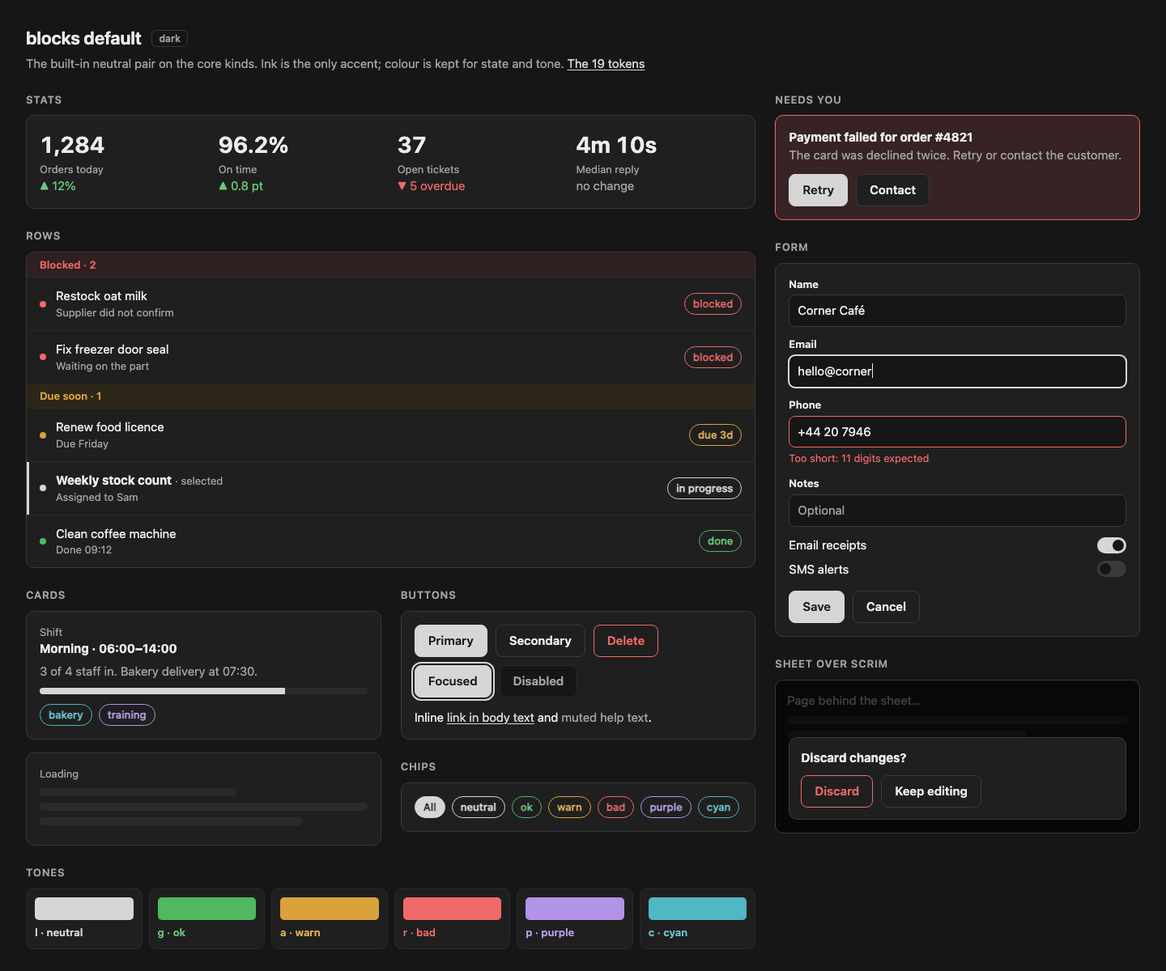
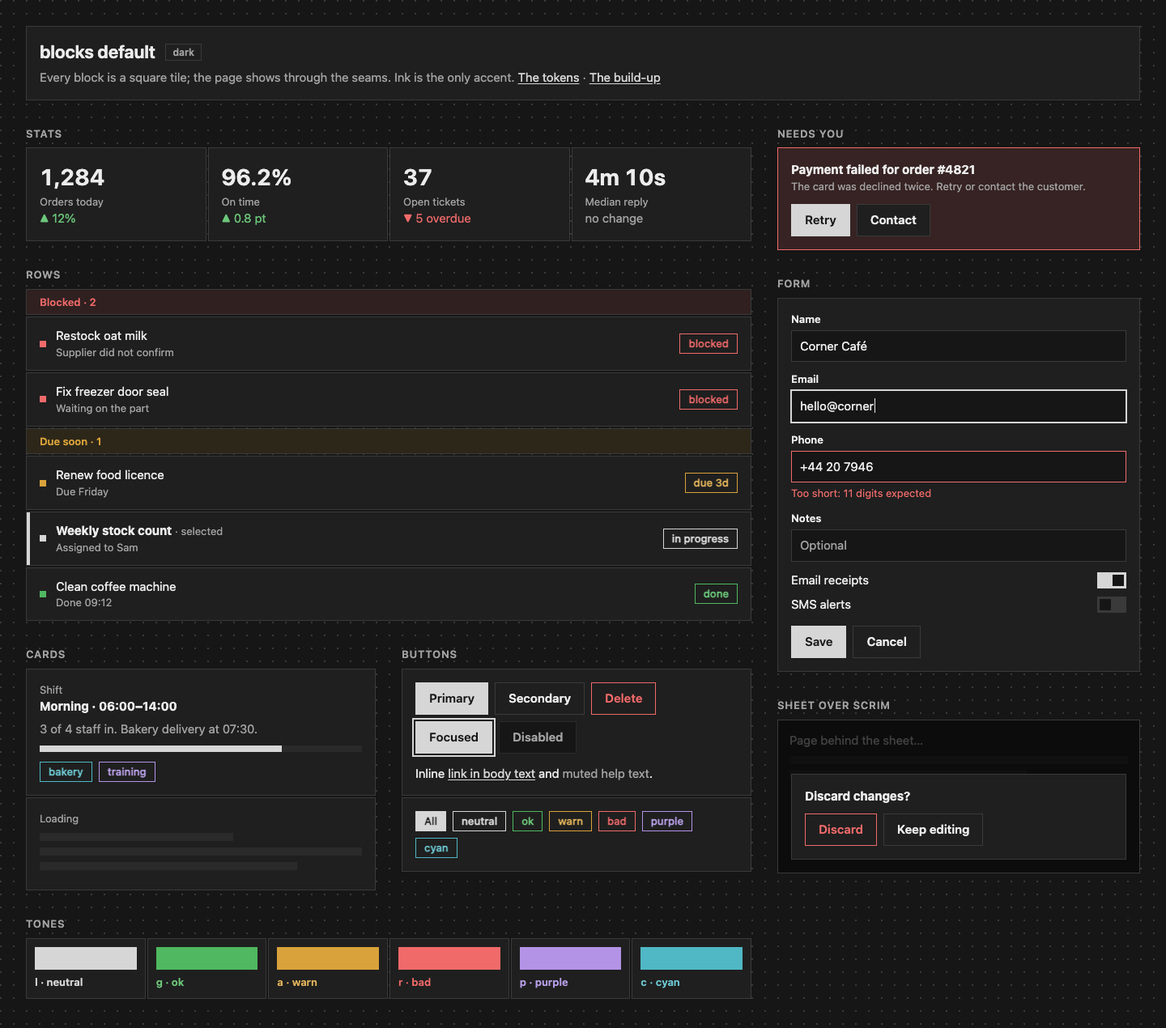
design(#53): tiles, seams, dot grid and the first-load build-up on the default pair (q2127)

diff --git a/docs/design/neutral-default/tokens.html b/docs/design/neutral-default/tokens.html
@@ -1,10 +1,10 @@
 <!doctype html><html lang="en"><head><meta charset="utf-8"><meta name="viewport" content="width=device-width,initial-scale=1">
-<title>blocks default pair: the 19 tokens</title><link rel="stylesheet" href="tokens.css"><link rel="stylesheet" href="page.css">
-<style>table{width:100%;border-collapse:collapse;background:var(--card);border:1px solid var(--edge);border-radius:10px;overflow:hidden}
+<title>blocks default: the tokens</title><link rel="stylesheet" href="tokens.css"><link rel="stylesheet" href="page.css">
+<style>table{width:100%;border-collapse:collapse;background:var(--card);border:1px solid var(--edge);border-radius:0}
 th,td{text-align:left;padding:9px 14px;border-top:1px solid var(--line);font-size:14px}th{font-size:13px;color:var(--mute);border-top:0}
 .m{color:var(--mute)}code{font:13px ui-monospace,SFMono-Regular,Menlo,monospace}
-.sw{display:inline-block;width:18px;height:18px;border-radius:4px;border:1px solid var(--edge);vertical-align:-4px;margin-right:8px}
+.sw{display:inline-block;width:18px;height:18px;border:1px solid var(--edge);vertical-align:-4px;margin-right:8px}
 @media (max-width:700px){th,td{padding:8px 8px;font-size:12px}code{font-size:11px}.sw{width:14px;height:14px;margin-right:4px}td.m,th.m{display:none}}</style></head>
-<body><h1>blocks default: the 19 tokens</h1>
-<p class="sub">“Default light” and “Default dark”. Both pass <code>gate</code>; no value is taken from a named scheme. <a href="kinds.html">The core kinds</a></p>
-<table><tr><th>Token</th><th class="m">Used for</th><th>Light</th><th>Dark</th></tr><tr><td><code>--bg</code></td><td class="m">page</td><td><span class="sw" style="background:#f6f6f6"></span><code>#f6f6f6</code></td><td><span class="sw" style="background:#161616"></span><code>#161616</code></td></tr><tr><td><code>--card</code></td><td class="m">card, sheet</td><td><span class="sw" style="background:#ffffff"></span><code>#ffffff</code></td><td><span class="sw" style="background:#1f1f1f"></span><code>#1f1f1f</code></td></tr><tr><td><code>--edge</code></td><td class="m">borders</td><td><span class="sw" style="background:#d0d0d0"></span><code>#d0d0d0</code></td><td><span class="sw" style="background:#3a3a3a"></span><code>#3a3a3a</code></td></tr><tr><td><code>--line</code></td><td class="m">dividers, tracks</td><td><span class="sw" style="background:#e4e4e4"></span><code>#e4e4e4</code></td><td><span class="sw" style="background:#2a2a2a"></span><code>#2a2a2a</code></td></tr><tr><td><code>--scrim</code></td><td class="m">behind a sheet</td><td><span class="sw" style="background:#0000004d"></span><code>#0000004d</code></td><td><span class="sw" style="background:#00000099"></span><code>#00000099</code></td></tr><tr><td><code>--fg</code></td><td class="m">text</td><td><span class="sw" style="background:#1c1c1c"></span><code>#1c1c1c</code></td><td><span class="sw" style="background:#ececec"></span><code>#ececec</code></td></tr><tr><td><code>--mute</code></td><td class="m">secondary text</td><td><span class="sw" style="background:#5e5e5e"></span><code>#5e5e5e</code></td><td><span class="sw" style="background:#a3a3a3"></span><code>#a3a3a3</code></td></tr><tr><td><code>--l</code></td><td class="m">ink accent: primary fill, selection, focus</td><td><span class="sw" style="background:#3d3d3d"></span><code>#3d3d3d</code></td><td><span class="sw" style="background:#d6d6d6"></span><code>#d6d6d6</code></td></tr><tr><td><code>--link</code></td><td class="m">links (underlined)</td><td><span class="sw" style="background:#3d3d3d"></span><code>#3d3d3d</code></td><td><span class="sw" style="background:#d6d6d6"></span><code>#d6d6d6</code></td></tr><tr><td><code>--g</code></td><td class="m">ok state</td><td><span class="sw" style="background:#2f8a3e"></span><code>#2f8a3e</code></td><td><span class="sw" style="background:#4fb860"></span><code>#4fb860</code></td></tr><tr><td><code>--a</code></td><td class="m">warn state</td><td><span class="sw" style="background:#a86f00"></span><code>#a86f00</code></td><td><span class="sw" style="background:#d9a23a"></span><code>#d9a23a</code></td></tr><tr><td><code>--r</code></td><td class="m">bad state, needs-you</td><td><span class="sw" style="background:#c62828"></span><code>#c62828</code></td><td><span class="sw" style="background:#f06a6a"></span><code>#f06a6a</code></td></tr><tr><td><code>--p</code></td><td class="m">purple tone</td><td><span class="sw" style="background:#7a52b3"></span><code>#7a52b3</code></td><td><span class="sw" style="background:#b393e6"></span><code>#b393e6</code></td></tr><tr><td><code>--c</code></td><td class="m">cyan tone</td><td><span class="sw" style="background:#1f7a85"></span><code>#1f7a85</code></td><td><span class="sw" style="background:#4fb8c4"></span><code>#4fb8c4</code></td></tr><tr><td><code>--fk-l</code></td><td class="m">neutral tone text</td><td><span class="sw" style="background:#3d3d3d"></span><code>#3d3d3d</code></td><td><span class="sw" style="background:#d6d6d6"></span><code>#d6d6d6</code></td></tr><tr><td><code>--fk-p</code></td><td class="m">purple tone text</td><td><span class="sw" style="background:#6a45a0"></span><code>#6a45a0</code></td><td><span class="sw" style="background:#b8a0e8"></span><code>#b8a0e8</code></td></tr><tr><td><code>--fk-c</code></td><td class="m">cyan tone text</td><td><span class="sw" style="background:#17656e"></span><code>#17656e</code></td><td><span class="sw" style="background:#6cc6d0"></span><code>#6cc6d0</code></td></tr><tr><td><code>--fk-g</code></td><td class="m">ok tone text</td><td><span class="sw" style="background:#23702f"></span><code>#23702f</code></td><td><span class="sw" style="background:#6cc77a"></span><code>#6cc77a</code></td></tr><tr><td><code>--fk-a</code></td><td class="m">warn tone text</td><td><span class="sw" style="background:#855400"></span><code>#855400</code></td><td><span class="sw" style="background:#e0b25a"></span><code>#e0b25a</code></td></tr></table></body></html>
+<body><div class="tiles" style="margin-bottom:32px"><div class="tile"><h1>blocks default: the tokens</h1>
+<p class="sub">The 19 colours, then the style values. “Default light” and “Default dark”. Both pass <code>gate</code>; no value is taken from a named scheme. <a href="kinds.html">The core kinds</a> · <a href="storyboard.html">The build-up</a></p></div></div><h1>The 19 colours</h1><p class="sub" style="margin-bottom:16px">Unchanged from the first round.</p>
+<table><tr><th>Token</th><th class="m">Used for</th><th>Light</th><th>Dark</th></tr><tr><td><code>--bg</code></td><td class="m">page</td><td><span class="sw" style="background:#f6f6f6"></span><code>#f6f6f6</code></td><td><span class="sw" style="background:#161616"></span><code>#161616</code></td></tr><tr><td><code>--card</code></td><td class="m">card, sheet</td><td><span class="sw" style="background:#ffffff"></span><code>#ffffff</code></td><td><span class="sw" style="background:#1f1f1f"></span><code>#1f1f1f</code></td></tr><tr><td><code>--edge</code></td><td class="m">borders</td><td><span class="sw" style="background:#d0d0d0"></span><code>#d0d0d0</code></td><td><span class="sw" style="background:#3a3a3a"></span><code>#3a3a3a</code></td></tr><tr><td><code>--line</code></td><td class="m">dividers, tracks</td><td><span class="sw" style="background:#e4e4e4"></span><code>#e4e4e4</code></td><td><span class="sw" style="background:#2a2a2a"></span><code>#2a2a2a</code></td></tr><tr><td><code>--scrim</code></td><td class="m">behind a sheet</td><td><span class="sw" style="background:#0000004d"></span><code>#0000004d</code></td><td><span class="sw" style="background:#00000099"></span><code>#00000099</code></td></tr><tr><td><code>--fg</code></td><td class="m">text</td><td><span class="sw" style="background:#1c1c1c"></span><code>#1c1c1c</code></td><td><span class="sw" style="background:#ececec"></span><code>#ececec</code></td></tr><tr><td><code>--mute</code></td><td class="m">secondary text</td><td><span class="sw" style="background:#5e5e5e"></span><code>#5e5e5e</code></td><td><span class="sw" style="background:#a3a3a3"></span><code>#a3a3a3</code></td></tr><tr><td><code>--l</code></td><td class="m">ink accent: primary fill, selection, focus</td><td><span class="sw" style="background:#3d3d3d"></span><code>#3d3d3d</code></td><td><span class="sw" style="background:#d6d6d6"></span><code>#d6d6d6</code></td></tr><tr><td><code>--link</code></td><td class="m">links (underlined)</td><td><span class="sw" style="background:#3d3d3d"></span><code>#3d3d3d</code></td><td><span class="sw" style="background:#d6d6d6"></span><code>#d6d6d6</code></td></tr><tr><td><code>--g</code></td><td class="m">ok state</td><td><span class="sw" style="background:#2f8a3e"></span><code>#2f8a3e</code></td><td><span class="sw" style="background:#4fb860"></span><code>#4fb860</code></td></tr><tr><td><code>--a</code></td><td class="m">warn state</td><td><span class="sw" style="background:#a86f00"></span><code>#a86f00</code></td><td><span class="sw" style="background:#d9a23a"></span><code>#d9a23a</code></td></tr><tr><td><code>--r</code></td><td class="m">bad state, needs-you</td><td><span class="sw" style="background:#c62828"></span><code>#c62828</code></td><td><span class="sw" style="background:#f06a6a"></span><code>#f06a6a</code></td></tr><tr><td><code>--p</code></td><td class="m">purple tone</td><td><span class="sw" style="background:#7a52b3"></span><code>#7a52b3</code></td><td><span class="sw" style="background:#b393e6"></span><code>#b393e6</code></td></tr><tr><td><code>--c</code></td><td class="m">cyan tone</td><td><span class="sw" style="background:#1f7a85"></span><code>#1f7a85</code></td><td><span class="sw" style="background:#4fb8c4"></span><code>#4fb8c4</code></td></tr><tr><td><code>--fk-l</code></td><td class="m">neutral tone text</td><td><span class="sw" style="background:#3d3d3d"></span><code>#3d3d3d</code></td><td><span class="sw" style="background:#d6d6d6"></span><code>#d6d6d6</code></td></tr><tr><td><code>--fk-p</code></td><td class="m">purple tone text</td><td><span class="sw" style="background:#6a45a0"></span><code>#6a45a0</code></td><td><span class="sw" style="background:#b8a0e8"></span><code>#b8a0e8</code></td></tr><tr><td><code>--fk-c</code></td><td class="m">cyan tone text</td><td><span class="sw" style="background:#17656e"></span><code>#17656e</code></td><td><span class="sw" style="background:#6cc6d0"></span><code>#6cc6d0</code></td></tr><tr><td><code>--fk-g</code></td><td class="m">ok tone text</td><td><span class="sw" style="background:#23702f"></span><code>#23702f</code></td><td><span class="sw" style="background:#6cc77a"></span><code>#6cc77a</code></td></tr><tr><td><code>--fk-a</code></td><td class="m">warn tone text</td><td><span class="sw" style="background:#855400"></span><code>#855400</code></td><td><span class="sw" style="background:#e0b25a"></span><code>#e0b25a</code></td></tr></table><h1 style="margin-top:32px">Style values</h1><p class="sub" style="margin-bottom:16px">The same in light and dark. Under reduced motion nothing animates.</p><table><tr><th>Token</th><th>Value</th><th class="m">Used for</th></tr><tr><td><code>--radius</code></td><td><code>0px</code></td><td class="m">tile, button, field and chip corners: square</td></tr><tr><td><code>--seam</code></td><td><code>2px</code></td><td class="m">gap between tiles; the page shows through</td></tr><tr><td><code>tile edge</code></td><td>1px <code>--edge</code></td><td class="m">each tile's outline, so the seam reads in light mode</td></tr><tr><td><code>--dot-size</code></td><td><code>2px</code></td><td class="m">grid dot, a square</td></tr><tr><td><code>--dot-gap</code></td><td><code>16px</code></td><td class="m">dot spacing; page padding and section gaps are multiples of it</td></tr><tr><td><code>--dot</code></td><td><code>--edge</code></td><td class="m">dot colour: no 20th colour</td></tr><tr><td><code>--settle</code></td><td><code>160ms</code></td><td class="m">one tile's build-up: fade and rise</td></tr><tr><td><code>--rise</code></td><td><code>8px</code></td><td class="m">how far a tile rises as it settles</td></tr><tr><td><code>--stagger</code></td><td><code>40ms</code></td><td class="m">most time between two tiles' starts</td></tr><tr><td><code>--build</code></td><td><code>200ms</code></td><td class="m">latest start of the last tile; step = min(--stagger, --build ÷ (tiles − 1)); all done by 360 ms</td></tr><tr><td><code>--enter</code></td><td><code>160ms</code></td><td class="m">a later block's fade, in place, no rise</td></tr><tr><td><code>--ease</code></td><td><code>cubic-bezier(0.2, 0, 0, 1)</code></td><td class="m">ease-out for both</td></tr></table></body></html>

diff --git a/docs/design/neutral-default/kinds.html b/docs/design/neutral-default/kinds.html
@@ -1,72 +1,74 @@
 <!doctype html><html lang="en"><head><meta charset="utf-8"><meta name="viewport" content="width=device-width,initial-scale=1">
-<title>blocks default pair: core kinds</title><link rel="stylesheet" href="tokens.css"><link rel="stylesheet" href="page.css"></head>
+<title>blocks default: core kinds as tiles</title><link rel="stylesheet" href="tokens.css"><link rel="stylesheet" href="page.css"></head>
 <body>
-<h1>blocks default <span class="mode"></span></h1>
-<p class="sub">The built-in neutral pair on the core kinds. Ink is the only accent; colour is kept for state and tone. <a href="tokens.html">The 19 tokens</a></p>
+<div class="tiles head"><div class="tile"><h1>blocks default <span class="mode"></span></h1>
+<p class="sub">Every block is a square tile; the page shows through the seams. Ink is the only accent. <a href="tokens.html">The tokens</a> · <a href="storyboard.html">The build-up</a></p></div></div>
 <div class="grid"><div class="col">
 <section><h2>Stats</h2>
-<div class="card stats">
-<div class="stat"><div class="n">1,284</div><div class="k">Orders today</div><div class="up">▲ 12%</div></div>
-<div class="stat"><div class="n">96.2%</div><div class="k">On time</div><div class="up">▲ 0.8 pt</div></div>
-<div class="stat"><div class="n">37</div><div class="k">Open tickets</div><div class="down">▼ 5 overdue</div></div>
-<div class="stat"><div class="n">4m 10s</div><div class="k">Median reply</div><div class="ph">no change</div></div>
+<div class="tiles stats">
+<div class="tile stat"><div class="n">1,284</div><div class="k">Orders today</div><div class="up">▲ 12%</div></div>
+<div class="tile stat"><div class="n">96.2%</div><div class="k">On time</div><div class="up">▲ 0.8 pt</div></div>
+<div class="tile stat"><div class="n">37</div><div class="k">Open tickets</div><div class="down">▼ 5 overdue</div></div>
+<div class="tile stat"><div class="n">4m 10s</div><div class="k">Median reply</div><div class="ph">no change</div></div>
 </div></section>
 <section><h2>Rows</h2>
-<div class="rows">
-<div class="grp red">Blocked · 2</div>
-<div class="row"><span class="dot" style="background:var(--r)"></span><div class="t">Restock oat milk<div class="m">Supplier did not confirm</div></div><span class="chip r">blocked</span></div>
-<div class="row"><span class="dot" style="background:var(--r)"></span><div class="t">Fix freezer door seal<div class="m">Waiting on the part</div></div><span class="chip r">blocked</span></div>
-<div class="grp amber">Due soon · 1</div>
-<div class="row"><span class="dot" style="background:var(--a)"></span><div class="t">Renew food licence<div class="m">Due Friday</div></div><span class="chip a">due 3d</span></div>
-<div class="row sel"><span class="dot" style="background:var(--l)"></span><div class="t"><strong>Weekly stock count</strong> <span class="m">· selected</span><div class="m">Assigned to Sam</div></div><span class="chip l">in progress</span></div>
-<div class="row"><span class="dot" style="background:var(--g)"></span><div class="t">Clean coffee machine<div class="m">Done 09:12</div></div><span class="chip g">done</span></div>
+<div class="tiles" id="rows">
+<div class="tile grp red">Blocked · 2</div>
+<div class="tile row"><span class="dot" style="background:var(--r)"></span><div class="t">Restock oat milk<div class="m">Supplier did not confirm</div></div><span class="chip r">blocked</span></div>
+<div class="tile row"><span class="dot" style="background:var(--r)"></span><div class="t">Fix freezer door seal<div class="m">Waiting on the part</div></div><span class="chip r">blocked</span></div>
+<div class="tile grp amber">Due soon · 1</div>
+<div class="tile row"><span class="dot" style="background:var(--a)"></span><div class="t">Renew food licence<div class="m">Due Friday</div></div><span class="chip a">due 3d</span></div>
+<div class="tile row sel"><span class="dot" style="background:var(--l)"></span><div class="t"><strong>Weekly stock count</strong> <span class="m">· selected</span><div class="m">Assigned to Sam</div></div><span class="chip l">in progress</span></div>
+<div class="tile row"><span class="dot" style="background:var(--g)"></span><div class="t">Clean coffee machine<div class="m">Done 09:12</div></div><span class="chip g">done</span></div>
 </div></section>
 <div class="pair"><section><h2>Cards</h2>
-<div class="card"><div class="m" style="color:var(--mute);font-size:13px">Shift</div><strong>Morning · 06:00–14:00</strong>
+<div class="tiles">
+<div class="tile"><div class="m">Shift</div><strong>Morning · 06:00–14:00</strong>
 <p style="margin:6px 0 10px;color:var(--mute)">3 of 4 staff in. Bakery delivery at 07:30.</p>
 <div class="bar"><b style="width:75%;background:var(--l)"></b></div>
 <div class="chips" style="margin-top:12px"><span class="chip c">bakery</span><span class="chip p">training</span></div></div>
-<div class="card" style="margin-top:16px"><div style="font-size:13px;color:var(--mute)">Loading</div>
+<div class="tile"><div class="m">Loading</div>
 <div class="skel" style="width:60%"></div><div class="skel"></div><div class="skel" style="width:80%"></div></div>
-</section>
+</div></section>
 <section><h2>Buttons</h2>
-<div class="card"><div class="btns">
+<div class="tiles">
+<div class="tile"><div class="btns">
 <button class="btn pri">Primary</button><button class="btn">Secondary</button><button class="btn bad">Delete</button>
 <button class="btn pri focus">Focused</button><button class="btn" disabled>Disabled</button></div>
 <p style="margin-top:14px">Inline <a href="#">link in body text</a> and <span class="ph">muted help text</span>.</p></div>
-<h2 style="margin-top:24px">Chips</h2>
-<div class="card chips"><span class="chip on">All</span><span class="chip l">neutral</span><span class="chip g">ok</span><span class="chip a">warn</span>
+<div class="tile chips"><span class="chip on">All</span><span class="chip l">neutral</span><span class="chip g">ok</span><span class="chip a">warn</span>
 <span class="chip r">bad</span><span class="chip p">purple</span><span class="chip c">cyan</span></div>
-</section>
+</div></section>
 </div>
 <section><h2>Tones</h2>
-<div class="tones">
-<div class="tone" style="color:var(--fk-l)"><i style="background:var(--l)"></i>l · neutral</div>
-<div class="tone" style="color:var(--fk-g)"><i style="background:var(--g)"></i>g · ok</div>
-<div class="tone" style="color:var(--fk-a)"><i style="background:var(--a)"></i>a · warn</div>
-<div class="tone" style="color:var(--r)"><i style="background:var(--r)"></i>r · bad</div>
-<div class="tone" style="color:var(--fk-p)"><i style="background:var(--p)"></i>p · purple</div>
-<div class="tone" style="color:var(--fk-c)"><i style="background:var(--c)"></i>c · cyan</div>
+<div class="tiles tones">
+<div class="tile tone" style="color:var(--fk-l)"><i style="background:var(--l)"></i>l · neutral</div>
+<div class="tile tone" style="color:var(--fk-g)"><i style="background:var(--g)"></i>g · ok</div>
+<div class="tile tone" style="color:var(--fk-a)"><i style="background:var(--a)"></i>a · warn</div>
+<div class="tile tone" style="color:var(--r)"><i style="background:var(--r)"></i>r · bad</div>
+<div class="tile tone" style="color:var(--fk-p)"><i style="background:var(--p)"></i>p · purple</div>
+<div class="tile tone" style="color:var(--fk-c)"><i style="background:var(--c)"></i>c · cyan</div>
 </div></section>
 </div><div class="col">
 <section><h2>Needs you</h2>
-<div class="needs"><strong>Payment failed for order #4821</strong>
+<div class="tiles"><div class="tile needs"><strong>Payment failed for order #4821</strong>
 <p class="m">The card was declined twice. Retry or contact the customer.</p>
-<div class="btns" style="margin-top:12px"><button class="btn pri">Retry</button><button class="btn">Contact</button></div></div>
+<div class="btns" style="margin-top:12px"><button class="btn pri">Retry</button><button class="btn">Contact</button></div></div></div>
 </section>
 <section><h2>Form</h2>
-<div class="card">
+<div class="tiles"><div class="tile">
 <label>Name</label><div class="in">Corner Café</div>
 <label>Email</label><div class="in focus">hello@corner<span style="border-left:1.5px solid var(--fg);margin-left:1px"></span></div>
 <label>Phone</label><div class="in err">+44 20 7946</div><div class="hint err">Too short: 11 digits expected</div>
 <label>Notes</label><div class="in ph">Optional</div>
-<div class="row" style="padding:12px 0 0;border:0"><div class="t">Email receipts</div><span class="toggle"></span></div>
-<div class="row" style="padding:8px 0 0;border:0"><div class="t">SMS alerts</div><span class="toggle off"></span></div>
+<div class="row" style="padding:12px 0 0"><div class="t">Email receipts</div><span class="toggle"></span></div>
+<div class="row" style="padding:8px 0 0"><div class="t">SMS alerts</div><span class="toggle off"></span></div>
 <div class="btns" style="margin-top:16px"><button class="btn pri">Save</button><button class="btn">Cancel</button></div>
-</div></section>
+</div></div></section>
 <section><h2>Sheet over scrim</h2>
-<div class="stage"><div class="under">Page behind the sheet…<div class="skel"></div><div class="skel" style="width:70%"></div></div>
-<div class="scrim"></div><div class="sheet"><strong>Discard changes?</strong>
-<div class="btns" style="margin-top:10px"><button class="btn bad">Discard</button><button class="btn">Keep editing</button></div></div></div>
+<div class="tiles"><div class="tile stage"><div class="under">Page behind the sheet…<div class="skel"></div><div class="skel" style="width:70%"></div></div>
+<div class="scrim"></div><div class="tile sheet"><strong>Discard changes?</strong>
+<div class="btns" style="margin-top:10px"><button class="btn bad">Discard</button><button class="btn">Keep editing</button></div></div></div></div>
 </section>
-</div></div></body></html>
+</div></div>
+<script src="build.js"></script></body></html>

diff --git a/docs/design/neutral-default/page.css b/docs/design/neutral-default/page.css
@@ -1,54 +1,61 @@
 *{box-sizing:border-box;margin:0}
-body{background:var(--bg);color:var(--fg);font:15px/1.45 -apple-system,BlinkMacSystemFont,"Segoe UI",Roboto,sans-serif;padding:32px}
-h1{font-size:22px;font-weight:650}h2{font-size:13px;font-weight:600;text-transform:uppercase;letter-spacing:.06em;color:var(--mute);margin:0 0 10px}
-.sub{color:var(--mute);margin:4px 0 24px}
+body{color:var(--fg);font:15px/1.45 -apple-system,BlinkMacSystemFont,"Segoe UI",Roboto,sans-serif;padding:32px;min-height:100vh;
+background:conic-gradient(from 270deg at var(--dot-size) var(--dot-size),var(--dot) 25%,transparent 0) 0 0/var(--dot-gap) var(--dot-gap),var(--bg)}
+h1{font-size:22px;font-weight:650}
+h2{font-size:13px;font-weight:600;text-transform:uppercase;letter-spacing:.06em;color:var(--mute);margin:0 0 8px}
+.sub{color:var(--mute);margin:4px 0 0}
 a{color:var(--link);text-decoration:underline;text-underline-offset:2px}
-.grid{display:grid;grid-template-columns:2fr 1fr;gap:24px;align-items:start}.col{display:flex;flex-direction:column;gap:24px;min-width:0}.pair{display:grid;grid-template-columns:1fr 1fr;gap:24px;align-items:start}
-.span2{grid-column:span 2}
-.card{background:var(--card);border:1px solid var(--edge);border-radius:10px;padding:16px}
-.rows{background:var(--card);border:1px solid var(--edge);border-radius:10px;overflow:hidden}
-.row{display:flex;align-items:center;gap:12px;padding:12px 16px;border-top:1px solid var(--line)}
-.row:first-child{border-top:0}.row .t{flex:1}.row .m{color:var(--mute);font-size:13px}
-.row.sel{box-shadow:inset 3px 0 0 var(--l)}
+.grid{display:grid;grid-template-columns:2fr 1fr;gap:32px;align-items:start}.col{display:flex;flex-direction:column;gap:32px;min-width:0}
+.pair{display:grid;grid-template-columns:1fr 1fr;gap:32px;align-items:start}
+.tiles{display:grid;gap:var(--seam)}
+.tile{background:var(--card);border:1px solid var(--edge);border-radius:var(--radius);padding:16px}
+.head{margin-bottom:32px}
+.row{display:flex;align-items:center;gap:12px;padding:12px 16px}
+.row .t{flex:1}.m{color:var(--mute);font-size:13px}
+.row.sel{box-shadow:inset 4px 0 0 var(--l)}
 .grp{padding:6px 16px;font-size:13px;font-weight:600}
 .grp.red{background:color-mix(in srgb,var(--r) 12%,var(--bg));color:var(--r)}
 .grp.amber{background:color-mix(in srgb,var(--a) 12%,var(--bg));color:var(--a)}
-.needs{background:color-mix(in srgb,var(--r) 15%,var(--bg));border:1px solid var(--r);border-radius:10px;padding:16px}
-.needs .m{color:var(--mute)}
-.dot{width:8px;height:8px;border-radius:50%;flex:none}
+.needs{background:color-mix(in srgb,var(--r) 15%,var(--bg));border-color:var(--r)}
+.dot{width:8px;height:8px;flex:none}
 .chips{display:flex;flex-wrap:wrap;gap:8px}
-.chip{display:inline-flex;align-items:center;gap:6px;padding:3px 10px;border-radius:999px;font-size:13px;font-weight:550;border:1px solid}
+.chip{display:inline-flex;align-items:center;padding:2px 10px;border-radius:var(--radius);font-size:13px;font-weight:550;border:1px solid}
 .chip.l{color:var(--fk-l);border-color:var(--l)}.chip.p{color:var(--fk-p);border-color:var(--p)}.chip.c{color:var(--fk-c);border-color:var(--c)}
 .chip.g{color:var(--fk-g);border-color:var(--g)}.chip.a{color:var(--fk-a);border-color:var(--a)}.chip.r{color:var(--r);border-color:var(--r)}
 .chip.on{background:var(--l);color:var(--bg);border-color:var(--l)}
-.btns{display:flex;flex-wrap:wrap;gap:10px}
-.btn{font:inherit;font-weight:600;padding:8px 16px;border-radius:8px;border:1px solid var(--edge);background:var(--card);color:var(--fg)}
+.btns{display:flex;flex-wrap:wrap;gap:8px}
+.btn{font:inherit;font-weight:600;padding:8px 16px;border-radius:var(--radius);border:1px solid var(--edge);background:var(--card);color:var(--fg)}
 .btn.pri{background:var(--l);color:var(--bg);border-color:var(--l)}
 .btn.bad{color:var(--r);border-color:var(--r)}
 .btn.focus{outline:2px solid var(--l);outline-offset:2px}
 .btn[disabled]{color:var(--mute);border-color:var(--line);background:var(--bg)}
-.stats{display:grid;grid-template-columns:repeat(4,1fr);gap:16px}
+.stats{grid-template-columns:repeat(4,1fr)}
 .stat .n{font-size:28px;font-weight:650;font-variant-numeric:tabular-nums}.stat .k{color:var(--mute);font-size:13px}
 .up{color:var(--fk-g)}.down{color:var(--r)}
 label{display:block;font-size:13px;font-weight:600;margin:12px 0 4px}label:first-child{margin-top:0}
-.in{width:100%;font:inherit;color:var(--fg);background:var(--bg);border:1px solid var(--edge);border-radius:8px;padding:8px 10px}
+.in{width:100%;color:var(--fg);background:var(--bg);border:1px solid var(--edge);border-radius:var(--radius);padding:8px 10px}
 .in.focus{border-color:var(--l);outline:2px solid var(--l);outline-offset:-1px}
 .in.err{border-color:var(--r)}.hint{font-size:13px;color:var(--mute);margin-top:4px}.hint.err{color:var(--r)}
 .ph{color:var(--mute)}
-.tones{display:grid;grid-template-columns:repeat(6,1fr);gap:8px}
-.tone{border-radius:8px;padding:10px;font-size:13px;font-weight:600;background:var(--card);border:1px solid var(--line)}
-.tone i{display:block;height:28px;border-radius:5px;margin-bottom:6px}
-.bar{height:8px;border-radius:4px;background:var(--line);overflow:hidden}.bar b{display:block;height:100%}
-.stage{position:relative;height:190px;border-radius:10px;overflow:hidden;border:1px solid var(--edge);background:var(--bg)}
+.tones{grid-template-columns:repeat(6,1fr)}
+.tone{font-size:13px;font-weight:600;padding:10px}
+.tone i{display:block;height:28px;margin-bottom:6px}
+.bar{height:8px;background:var(--line)}.bar b{display:block;height:100%}
+.stage{position:relative;height:190px;overflow:hidden;padding:0}
 .stage .under{padding:14px;color:var(--mute)}
 .stage .scrim{position:absolute;inset:0;background:var(--scrim)}
-.stage .sheet{position:absolute;left:16px;right:16px;bottom:16px;background:var(--card);border:1px solid var(--edge);border-radius:10px;padding:14px}
-.skel{height:10px;border-radius:5px;background:var(--line);margin:8px 0}
-.toggle{width:36px;height:20px;border-radius:10px;background:var(--l);position:relative;flex:none}
-.toggle::after{content:"";position:absolute;right:3px;top:3px;width:14px;height:14px;border-radius:50%;background:var(--bg)}
+.stage .sheet{position:absolute;left:16px;right:16px;bottom:16px}
+.skel{height:10px;background:var(--line);margin:8px 0}
+.toggle{width:36px;height:20px;background:var(--l);position:relative;flex:none}
+.toggle::after{content:"";position:absolute;right:3px;top:3px;width:14px;height:14px;background:var(--bg)}
 .toggle.off{background:var(--edge)}.toggle.off::after{right:auto;left:3px}
-.mode{display:inline-block;font-size:12px;font-weight:600;border:1px solid var(--edge);border-radius:6px;padding:1px 8px;color:var(--mute);margin-left:8px;vertical-align:3px}
+.mode{display:inline-block;font-size:12px;font-weight:600;border:1px solid var(--edge);padding:1px 8px;color:var(--mute);margin-left:8px;vertical-align:3px;background:var(--card)}
 .mode::after{content:"light"}
 @media (prefers-color-scheme: dark){.mode::after{content:"dark"}}
-@media (max-width:700px){body{padding:16px}.grid,.pair{grid-template-columns:1fr;gap:16px}.col{gap:16px}.span2{grid-column:auto}
+.built .tile{animation:settle var(--settle) var(--ease) backwards;animation-delay:calc(var(--i,0) * var(--step,0ms))}
+.tile.late{animation:enter var(--enter) var(--ease) backwards}
+@keyframes settle{from{opacity:0;transform:translateY(var(--rise))}}
+@keyframes enter{from{opacity:0}}
+@media (prefers-reduced-motion:reduce){.built .tile,.tile.late{animation:none}}
+@media (max-width:700px){body{padding:16px}.grid,.pair{grid-template-columns:1fr;gap:32px}.col{gap:32px}
 .stats{grid-template-columns:repeat(2,1fr)}.tones{grid-template-columns:repeat(3,1fr)}}

diff --git a/docs/design/neutral-default/storyboard.html b/docs/design/neutral-default/storyboard.html
@@ -1,0 +1,33 @@
+<!doctype html><html lang="en"><head><meta charset="utf-8"><meta name="viewport" content="width=device-width,initial-scale=1">
+<title>blocks default: the build-up</title><link rel="stylesheet" href="tokens.css"><link rel="stylesheet" href="page.css">
+<style>.frames{display:grid;grid-template-columns:repeat(5,1fr);gap:var(--seam)}.frames.three{grid-template-columns:repeat(3,1fr);max-width:60%}
+.frame img{display:block;width:100%;border:1px solid var(--edge)}.frame b{display:block;font-size:20px;font-variant-numeric:tabular-nums;margin-bottom:2px}
+.frame p{font-size:13px;color:var(--mute);margin:0 0 10px;min-height:56px}
+section{margin-top:32px}ol{padding-left:20px}li{margin:4px 0}
+@media (max-width:700px){.frames,.frames.three{grid-template-columns:1fr 1fr;max-width:none}}</style></head>
+<body>
+<div class="tiles"><div class="tile"><h1>The build-up</h1>
+<p class="sub">First load of a screen, 390 wide, light. Each tile rises 8 px and fades in over 160 ms; the next starts one step later. The last tile lands by 360 ms, under the 0.4 s limit. <a href="kinds.html">The core kinds</a> · <a href="tokens.html">The tokens</a></p></div></div>
+<section><h2>First load: 11 tiles on the phone screen, step 20 ms (25 tiles at 1440, step 8 ms)</h2>
+<div class="frames">
+<div class="tile frame"><b>0 ms</b><p>First paint: page, dot grid and section labels. Every tile is in the page, still transparent.</p><img src="frame-0.png" alt=""></div>
+<div class="tile frame"><b>90 ms</b><p>The title and the first stats are in; the lower stats are still rising.</p><img src="frame-90.png" alt=""></div>
+<div class="tile frame"><b>180 ms</b><p>Stats done; the rows follow one by one, top to bottom.</p><img src="frame-180.png" alt=""></div>
+<div class="tile frame"><b>270 ms</b><p>The last rows settle.</p><img src="frame-270.png" alt=""></div>
+<div class="tile frame"><b>360 ms</b><p>Done. Nothing moves again on this screen.</p><img src="frame-360.png" alt=""></div>
+</div></section>
+<section><h2>A block that arrives later: fade in place, 160 ms</h2>
+<div class="frames three">
+<div class="tile frame"><b>0 ms</b><p>The new row takes its place at once; the rows below step down without motion.</p><img src="late-0.png" alt=""></div>
+<div class="tile frame"><b>80 ms</b><p>It fades in where it lands. No rise, so nothing else seems to move.</p><img src="late-80.png" alt=""></div>
+<div class="tile frame"><b>160 ms</b><p>Done. Several blocks in one update fade together, with no stagger.</p><img src="late-160.png" alt=""></div>
+</div></section>
+<section><h2>The rules</h2><div class="tiles"><div class="tile"><ol>
+<li>Only the tiles on the first screen take part, ordered top to bottom, then left to right. Tiles below the fold are simply there.</li>
+<li>Step = the smaller of 40 ms and 200 ms ÷ (tiles − 1). So the last tile starts by 200 ms and lands by 360 ms, however many tiles there are.</li>
+<li>Each tile: opacity 0 → 1 and 8 px up → 0, 160 ms, ease-out. Move and fade only: no scale, no blur, no colour change.</li>
+<li>Once per screen load. A static page plays it from its own HTML; the takeover keeps the same tiles and does not play it again, so there is no flash.</li>
+<li>Reduced motion: no build-up and no fade. The page is simply still.</li>
+<li>A block removed later goes at once. A block whose content changes does not animate.</li>
+</ol></div></div></section>
+</body></html>

diff --git a/docs/design/neutral-default/build.js b/docs/design/neutral-default/build.js
@@ -1,0 +1,34 @@
+(() => {
+  const css = getComputedStyle(document.documentElement);
+  const ms = (name) => parseFloat(css.getPropertyValue(name));
+  const q = new URLSearchParams(location.search);
+  const late = q.get("late");
+  if (late !== null) {
+    const row = document.querySelector("#rows .row").cloneNode(true);
+    row.id = "";
+    row.classList.add("late");
+    row.querySelector(".t").firstChild.textContent = "Card declined, order #4822";
+    row.querySelector(".m").textContent = "Arrived after the build-up";
+    document.querySelector("#rows .grp").after(row);
+  }
+  const shown = [...document.querySelectorAll(".tile")]
+    .filter((t) => !t.parentElement.closest(".tile") && !t.classList.contains("late"))
+    .map((t) => ({ t, r: t.getBoundingClientRect() }))
+    .filter(({ r }) => r.top < innerHeight)
+    .sort((a, b) => a.r.top - b.r.top || a.r.left - b.r.left);
+  const step = Math.min(ms("--stagger"), ms("--build") / Math.max(1, shown.length - 1));
+  shown.forEach(({ t }, i) => t.style.setProperty("--i", i));
+  document.body.style.setProperty("--step", step + "ms");
+  document.body.classList.add("built");
+  document.body.dataset.tiles = shown.length;
+  const at = q.get("t") ?? late;
+  if (at !== null) {
+    const pin = () => document.getAnimations().forEach((a) => {
+      a.pause();
+      const isLate = a.effect.target.classList.contains("late");
+      a.currentTime = late !== null && !isLate ? 10000 : Number(at);
+    });
+    pin();
+    requestAnimationFrame(pin);
+  }
+})();

diff --git a/docs/design/neutral-default/tokens.css b/docs/design/neutral-default/tokens.css
@@ -6,3 +6,5 @@
 --bg:#161616;--card:#1f1f1f;--edge:#3a3a3a;--line:#2a2a2a;--scrim:#00000099;--fg:#ececec;--mute:#a3a3a3;
 --l:#d6d6d6;--link:#d6d6d6;--g:#4fb860;--a:#d9a23a;--r:#f06a6a;--p:#b393e6;--c:#4fb8c4;
 --fk-l:#d6d6d6;--fk-p:#b8a0e8;--fk-c:#6cc6d0;--fk-g:#6cc77a;--fk-a:#e0b25a}}
+:root{--radius:0px;--seam:2px;--dot-size:2px;--dot-gap:16px;--dot:var(--edge);
+--settle:160ms;--rise:8px;--stagger:40ms;--build:200ms;--enter:160ms;--ease:cubic-bezier(.2,0,0,1)}

diff --git a/docs/design/neutral-default/README.md b/docs/design/neutral-default/README.md
@@ -1,18 +1,51 @@
 ## Summary
 
-Decision: blocks' one built-in pair, "Default light" and "Default dark", is plain neutral grey. Dark-grey ink is the only accent (light grey in dark mode); colour is used only for states (green, amber, red) and the purple and cyan tones. Both pass the gate, and no value comes from the 12 named schemes.
-Screens: the core kinds in light and in dark (stats, rows, needs-you, form, cards, buttons, chips, tones, sheet over scrim), and the table of 19 tokens. Each at 1440 and 390.
-Open questions: links use the ink colour with an underline, not blue, so nothing reads as a brand. Is that what you want, or should `--link` be a quiet blue?
+Decision: blocks' built-in default is the neutral grey pair as drawn (ink is the only accent, links are ink and underlined), plus a tile look: every block is a square-cornered tile, with a 2 px seam where the page shows through and a faint dot grid on the page. On first load a screen's tiles settle in one by one, all done by 360 ms, once; reduced motion keeps the page still.
+Screens: the core kinds as tiles (light and dark), the build-up storyboard with a late block's entry, and the token table (19 colours and 12 style values). Each at 1440 and 390.
+Open questions: a block that arrives later is my proposal: it fades in where it lands over 160 ms with no rise, and the blocks below it step down at once. Is that right, or should they slide?
 
 ## Images
 
 | Image | What it shows |
 |---|---|
-| `kinds-light-1440.png`, `kinds-light-390.png` | Light: grey page, white cards and a dark-ink primary button, selection bar, focus ring and "all" chip. States are coloured: the red needs-you card (15% tint), red and amber group headers (12% tints), the error field, and up and down stats |
-| `kinds-dark-1440.png`, `kinds-dark-390.png` | Dark: the same page. Ink turns to light grey (`#d6d6d6`), so a primary button is light grey with dark text. States and tones are lighter so they stay readable |
-| `tokens-1440.png`, `tokens-390.png` | All 19 values for both modes and what each one is for. The built pair must match them exactly |
+| `kinds-light-1440.png`, `kinds-light-390.png` | Light: every block is a white square tile with a 1 px `--edge` outline. Tiles in a group sit 2 px apart and the grey page shows through the seam. Rows, stats and tones are one tile each, not dividers inside one card. Section labels and the dot grid sit on the page. Buttons, fields, chips, status dots and toggles are square too |
+| `kinds-dark-1440.png`, `kinds-dark-390.png` | Dark: the same tiles. The seam and dots use the dark page and `--edge`, so the grid stays faint |
+| `storyboard-1440.png`, `storyboard-390.png` | The build-up as five frames (0, 90, 180, 270, 360 ms) from the real page at 390 wide, and a late block's entry as three frames (0, 80, 160 ms). The rules are listed under the frames |
+| `tokens-1440.png`, `tokens-390.png` | The 19 colours for both modes (unchanged), then the style values. The built default must match them exactly |
 
-## The 19 tokens
+## The build-up
+
+- Only the tiles on the first screen take part, in reading order: top to bottom, then left to right. A tile below the fold is simply there.
+- Each tile fades from 0 to 1 and rises 8 px over 160 ms, ease-out. Move and fade only.
+- The step between starts is the smaller of 40 ms and 200 ms divided by (tiles on screen − 1). The last tile starts by 200 ms and lands by 360 ms, whatever the count: 11 tiles at 390 (step 20 ms), 25 at 1440 (step 8 ms).
+- It plays once per screen load. The content is in the page HTML from the first paint; a static page plays the build-up itself, and the takeover keeps the same tiles and does not play it again, so there is no flash.
+- Reduced motion: no build-up, no fade.
+- Both renderers can draw it from simple shapes: an opacity and a y offset per tile, a delay from its index. SwiftUI orders tiles by the layout's slot frames.
+
+## A block that arrives later (proposal)
+
+It takes its place at once, so the tiles below step down without motion, and it fades in over 160 ms with no rise. Several blocks in one update fade together, with no stagger. A removed block goes at once; a block whose content changes does not animate. Reduced motion: it simply appears.
+
+## Style values
+
+| Token | Value | Used for |
+|---|---|---|
+| `--radius` | `0px` | tile, button, field and chip corners |
+| `--seam` | `2px` | gap between tiles, where the page shows through |
+| tile edge | `1px` of `--edge` | each tile's outline, so the seam reads in light mode |
+| `--dot-size` | `2px` | grid dot, a square |
+| `--dot-gap` | `16px` | dot spacing; page padding and section gaps are multiples of it |
+| `--dot` | `--edge` | dot colour, so there is no 20th colour |
+| `--settle` | `160ms` | one tile's build-up |
+| `--rise` | `8px` | how far a tile rises as it settles |
+| `--stagger` | `40ms` | most time between two tiles' starts |
+| `--build` | `200ms` | latest start of the last tile |
+| `--enter` | `160ms` | a later block's fade |
+| `--ease` | `cubic-bezier(0.2, 0, 0, 1)` | ease-out for both motions |
+
+`default-style.json` holds these values. They are the same in light and dark.
+
+## The 19 colours
 
 | Token | Light | Dark |
 |---|---|---|
@@ -49,4 +82,4 @@ None of the 38 values is in any of the 12 named schemes.
 
 ## Files
 
-`tokens.css` sets the pair the way `theme::css` writes it: light on `:root`, dark under `prefers-color-scheme: dark`. `page.css` is used only by these mockups; blocks has no renderer CSS yet (#15). The pages are `kinds.html` and `tokens.html`. The dark images were rendered with Chrome headless shell and `--blink-settings=preferredColorScheme=0`.
+`tokens.css` sets the pair the way `theme::css` writes it (light on `:root`, dark under `prefers-color-scheme: dark`), then the style values. `page.css` and `build.js` are used only by these mockups; the HTML and SwiftUI renderers draw the tiles in their own issue. `build.js` runs the build-up; `?t=<ms>` holds the page at that moment, and `?late=<ms>` shows a late row at that moment of its fade. The storyboard frames are `frame-*.png` and `late-*.png`, rendered from `kinds.html` at 390 by 844. The dark images were rendered with Chrome headless shell and `--blink-settings=preferredColorScheme=0`. There is no clip: the host's ffmpeg cannot write a GIF, and the storyboard shows each moment.
